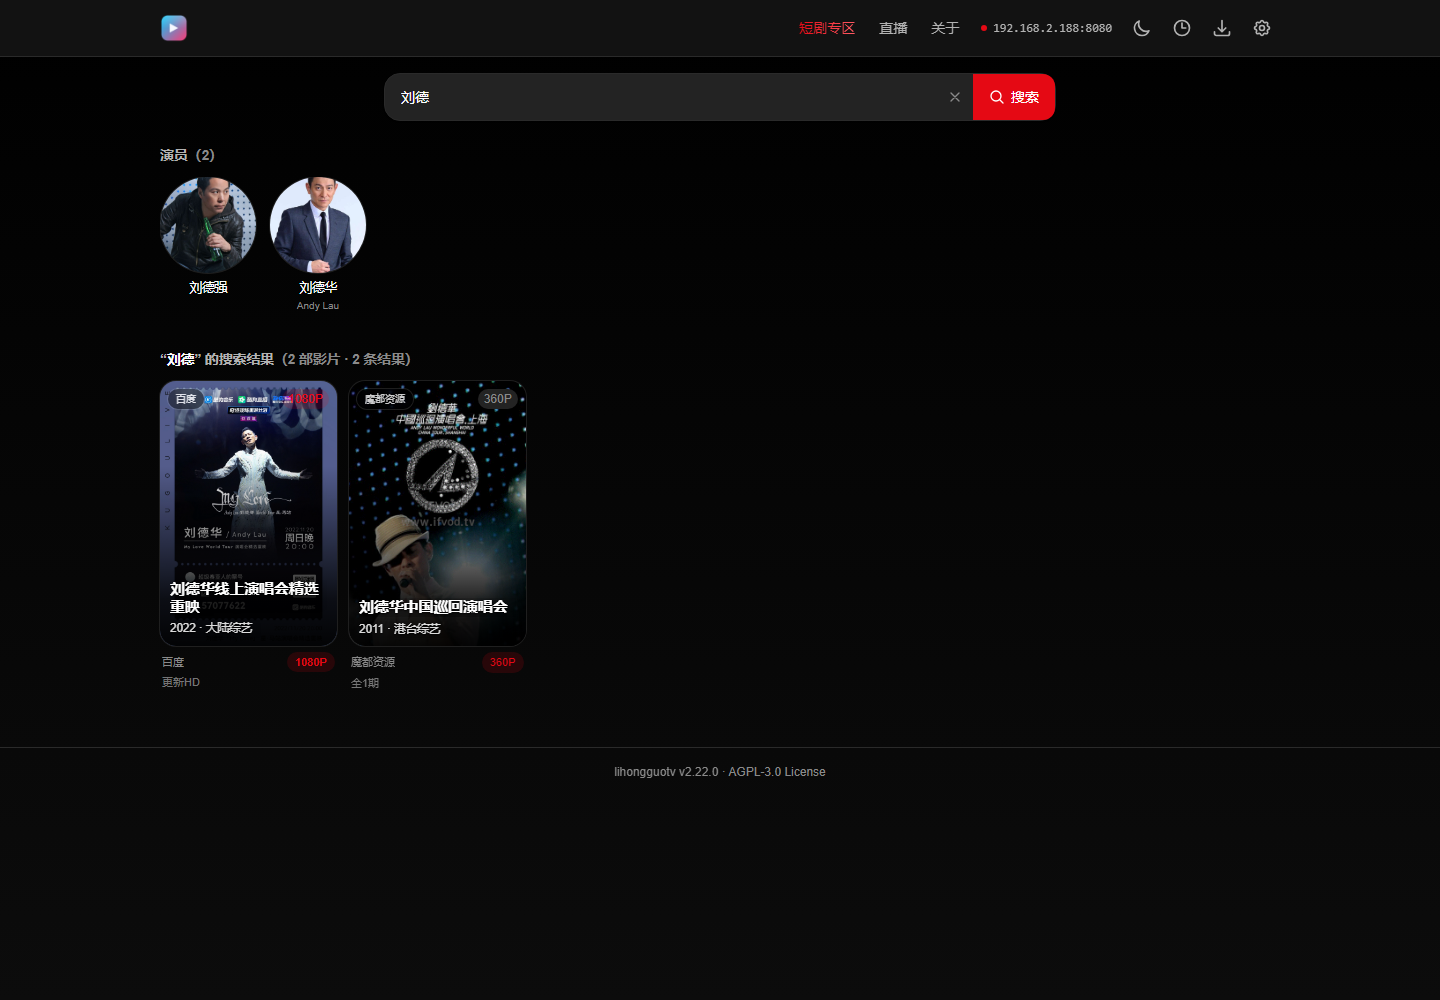
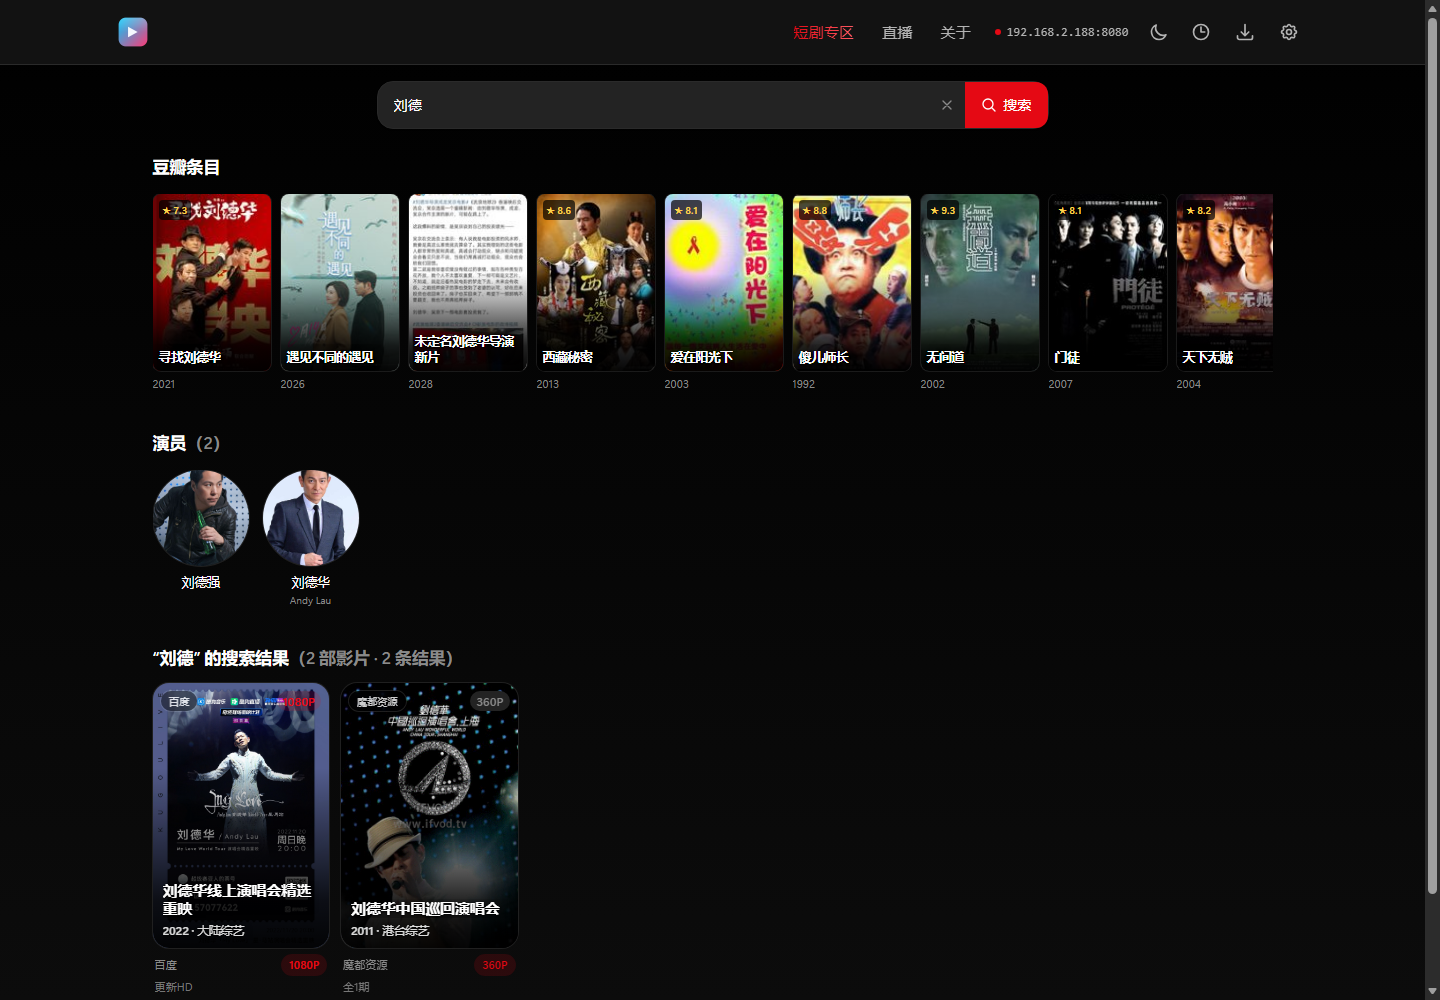
README 首页重写：功能按「检索 / 资料页 / 播放 / 首页 / 短剧 / 桌面」重排，截图画廊换新
- 顶部加两张主图（首页、演员检索），功能段补上演员检索、豆瓣条目、处处可点、换集不黑屏、手势
- 截图换成这一版实拍 10 张（首页 / 搜索 / 演员检索 / 豆瓣资料页 / 采集源资料页 / 相似影片 / 播放器 / 换源面板 / 演员页 / 手机首页）
- 删掉三张过时截图（旧 detail、旧 player-episodes、旧 title-mobile）

diff --git a/README.md b/README.md
@@ -1,6 +1,13 @@
 # lihongguotv-desktop
 
-把开源的影视聚合站点 [LibreTV](https://github.com/LibreSpark/LibreTV) 做成**能在 Windows 上双击安装、在 macOS 上解压即用的桌面应用**，并接入了一个**短剧专区**（体裁分类 / 观看历史 / 换源续播）。
+把开源的影视聚合站点 [LibreTV](https://github.com/LibreSpark/LibreTV) 做成**能在 Windows 上双击安装、在 macOS 上解压即用的桌面应用**：Netflix 风格的首页与资料页、**影片和演员一起搜的检索**、换集换源不黑屏的播放器，外加一个**短剧专区**（体裁分类 / 观看历史 / 换源续播）。
+
+<table>
+  <tr>
+    <td align="center"><img src="docs/images/home.png" width="420" alt="首页"><br><sub>首页：头图 + 继续观看 + TOP 10</sub></td>
+    <td align="center"><img src="docs/images/actor-search.png" width="420" alt="演员检索"><br><sub>搜「刘德」→ 刘德华 / 刘德强</sub></td>
+  </tr>
+</table>
 
 > **定位**：个人自建的播放器外壳，只负责「界面 + 播放 + 本机转发」。**不提供、不索引、不托管、不分发任何影视内容，不含任何片源、账号或订阅凭据**；所有可播放内容来自使用者自行配置的第三方接口。请勿用于商业用途或对外分发。
 >
@@ -26,47 +33,67 @@
 
 ## 功能
 
-**影视聚合（自建索引）**
-- 多接口并行搜索（苹果CMS 协议），同名影片自动合并成一张卡片，可展开比较各来源
-- 播放内核 ArtPlayer + hls.js，广告分片过滤、跳过片头片尾、倍速、快捷键
-- 直播（M3U / IPTV），带分组、搜索、EPG 节目单
-- 首页推荐：分类榜单 / 影视榜单（第三方公开评分数据）
+**检索：影片和演员一起搜**
+
+- 一条搜索框同时打三类数据：自己的点播源（并行流式返回）、豆瓣条目、豆瓣演员
+- 搜人名也能出结果：输入「刘德」→ 刘德华 / 刘德强，点进演员页看全部作品（联想命中不了时，会退化成「按人名搜影片 → 演职员表模糊匹配」，所以给名字片段也找得到）
+- 跨源同名影片自动合并成一张卡，展开可直接比较各来源的画质与速度
+
+**资料页：所有片名、人名都点得动**
+
+- 采集源资料页 `/detail/<源>/<片>`：海报、年份地区类型、简介、导演主演、播放源、剧集一页看完——原来的「播放前详情弹窗」已经并进这一页
+- 豆瓣资料页 `/title/<id>`：评分 / 简介 / 演员（可点进演员页）/ **相似影片** / 页内直接换源选集
+- 导演、主演渲染成名字胶囊，点一下就用这个名字再搜；换源面板有「看资料」，观看历史每条也有「资料」，不用先进播放器
+
+**播放：观影体验优先**
+
+- 播放内核 ArtPlayer + hls.js：前向缓冲 60s（开缓存 120s）、首片预取、按播放器尺寸选档、分片重试 8 次
+- 换集 / 换源**不黑屏**：切换瞬间把上一帧抓成遮罩，新分片进 buffer 才淡出
+- 换源面板标出**最快**源（有集数且详情接口最快），当前源本来就最快时直接说「不用换」
+- 手势：双击左 / 右 ±10 秒、长按 2 倍速；快捷键 空格 / ←→ / ↑↓ / F / Alt+←→
+- 广告分片过滤、跳过片头片尾、倍速记忆、断点续播、自动连播
+
+**首页：Netflix 那套结构**
+
+- 头图 billboard（本周推荐 + 播放 / 更多信息 + 右侧候选封面）
+- 继续观看（红色进度条 + 「第 N 集 · 剩余约 X 分钟」，点一下按上次位置续播）
+- 本周 TOP 10（大数字排名）、分类推荐网格、相似影片行
 
 **短剧专区（本项目新增）**
-- **两层导航**：真人剧 / 漫剧 / AI短剧 → 各自的推荐 / 热播 / 新剧
-- **观看历史**：按「剧 + 集」双维度记录进度，切回任意一集都接着上次的秒数
-- **继续观看**：首页横排卡片，一键回到上次位置
-- **换源续播**：同名剧换源后回到同一集，进度**只往前挪 10 秒**（不同源码率不同，往后挪必然漏剧情）
-- **收藏 / 已看标记 / 连播倒计时 / 倍速记忆**
-- 播放器快捷键（空格、←→、F、Esc），手机端双击暂停、左右滑动、长按 3 倍速
-- 服务端历史同步：换浏览器、换设备登录同一站点，历史自动合并
+
+- 两层导航：真人剧 / 漫剧 / AI短剧 → 各自的推荐 / 热播 / 新剧
+- 观看历史按「剧 + 集」记进度；**换源续播**只往前挪 10 秒（不同源码率不同，往后挪必然漏剧情）
+- 收藏 / 已看标记 / 连播倒计时 / 倍速记忆；服务端历史同步（换浏览器、换设备登录同一站点自动合并）
 
 **桌面体验**
-- Windows：自带 Node 运行时与 ffmpeg，安装后双击即用
-- **托盘常驻**：菜单第一行显示状态（主站运行中 · 短剧运行中），可「启动 / 停止 / 重启服务」「打开网页」「复制访问密码」「复制局域网地址」；服务没起时点「打开」会先自动拉起
-- macOS：解压后双击 `.command` 启动
-- **局域网观看**：网页右上角显示本机地址（如 `192.168.2.188:8080`），点一下复制；同一 WiFi 下的手机 / 平板 / 电视用浏览器打开即可
-- 每天/按需检查更新：拉取短剧内核新版、按拉流速度重排可用点播源
 
----
+- Windows：自带 Node 运行时与 ffmpeg，装完双击即用；托盘常驻（启动 / 停止 / 重启服务、打开网页、复制访问密码、复制局域网地址）
+- macOS：解压后双击 `.command` 启动
+- 局域网观看：页面右上角显示本机地址（如 `192.168.2.188:8080`），同一 WiFi 的手机 / 平板 / 电视浏览器打开即可
+- 每天 / 按需检查更新：拉短剧内核新版、按拉流速度重排可用点播源
 
 ## 截图
 
-| 首页（头图 + 继续观看 + TOP 10） | 搜索结果（大卡网格） |
+| 首页（头图 + 继续观看 + TOP 10） | 搜索结果（豆瓣条目 + 演员 + 大卡网格） |
 | --- | --- |
 | ![首页](docs/images/home.png) | ![搜索](docs/images/search.png) |
 
-| 演员检索（首页搜人名） | 豆瓣资料页（资料 + 播放入口） |
+| 演员检索（搜「刘德」） | 豆瓣资料页（资料 + 播放入口） |
 | --- | --- |
-| ![演员检索](docs/images/actor-search.png) | ![资料页](docs/images/title.png) |
+| ![演员检索](docs/images/actor-search.png) | ![豆瓣资料页](docs/images/title.png) |
 
-| 相似影片 | 采集源资料页（取代播放前弹窗） |
+| 采集源资料页（导演 / 主演可点） | 相似影片 |
 | --- | --- |
-| ![相似影片](docs/images/similar.png) | ![采集源资料页](docs/images/detail-source.png) |
+| ![采集源资料页](docs/images/detail-source.png) | ![相似影片](docs/images/similar.png) |
 
-| 播放器 · 换源面板 | 手机资料页 |
+| 播放器（双击 ±10 秒 / 长按 2×） | 换源面板（标最快 + 看资料） |
 | --- | --- |
-| ![换源](docs/images/player-episodes.png) | ![手机资料页](docs/images/title-mobile.png) |
+| ![播放器](docs/images/watch.png) | ![换源面板](docs/images/switch-source.png) |
+
+| 演员页（作品网格） | 手机首页 |
+| --- | --- |
+| ![演员页](docs/images/person.png) | ![手机首页](docs/images/home-mobile.png) |
+
 
 ## 快速开始
 
